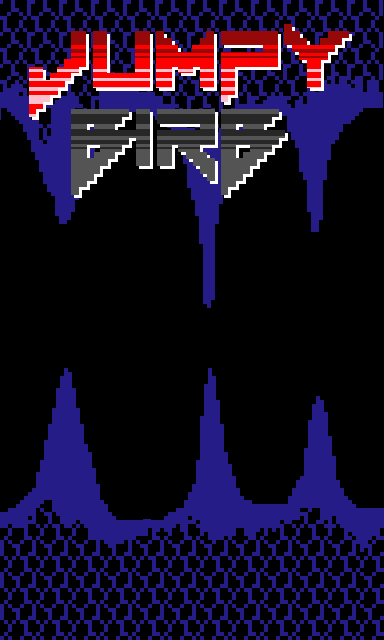
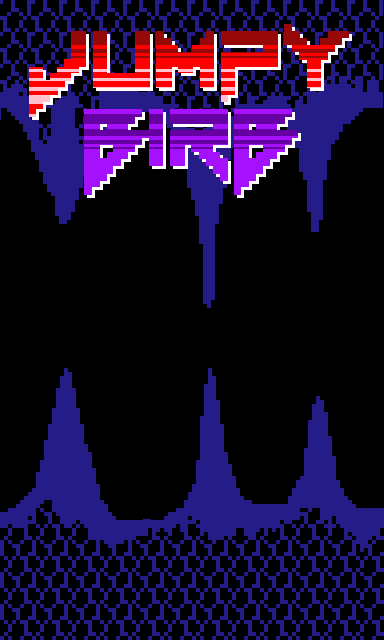
updated graphics

Changed region(s): [[0.1875, 0.1562, 0.7812, 0.3125]]

diff --git a/src/main/java/am24group6/Menu.java b/src/main/java/am24group6/Menu.java
@@ -20,6 +20,11 @@ public class Menu implements MouseListener, KeyListener {
 
     Image menuImage = new ImageIcon(getClass().getResource("/menu.png")).getImage();
 
+    // Testa att animera introt:
+    Image logo = new ImageIcon(getClass().getResource("/logo.png")).getImage();
+    Image blueRock = new ImageIcon(getClass().getResource("/blue_rock.png")).getImage();
+    Image flappyBirb = new ImageIcon(getClass().getResource("/birb_flapping.gif")).getImage();
+
     // Font superLegendBoy;
     Font superLegendBoy = FontHandler.loadCustomFont(22f, "/SuperLegendBoy.ttf");
 
